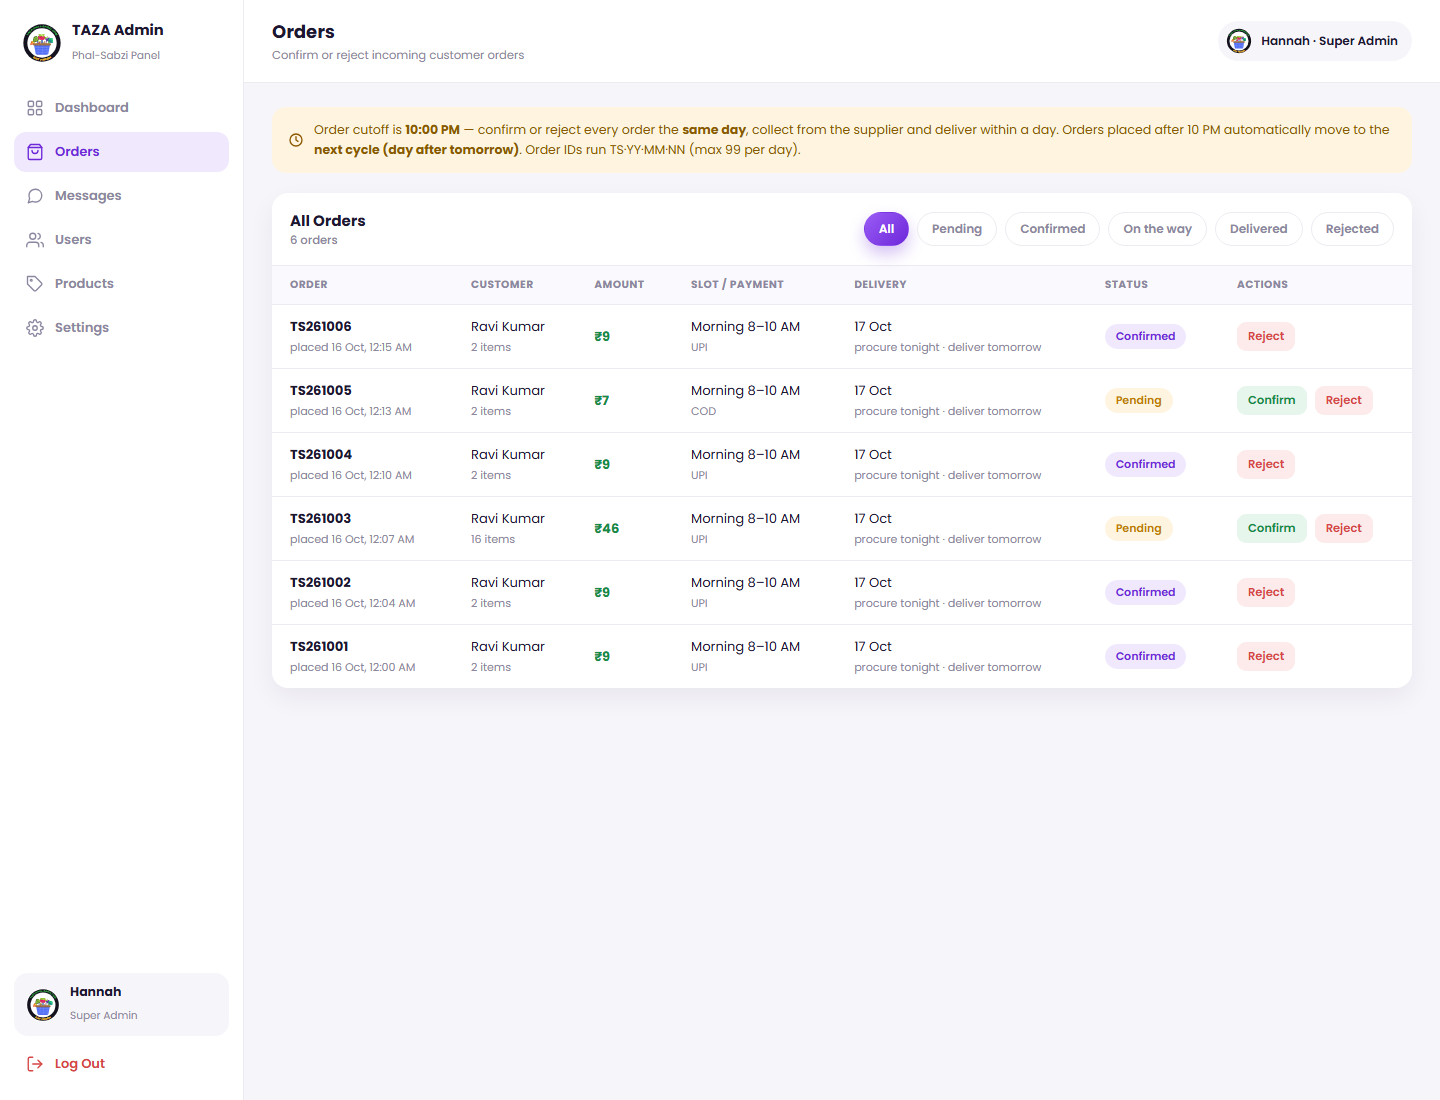
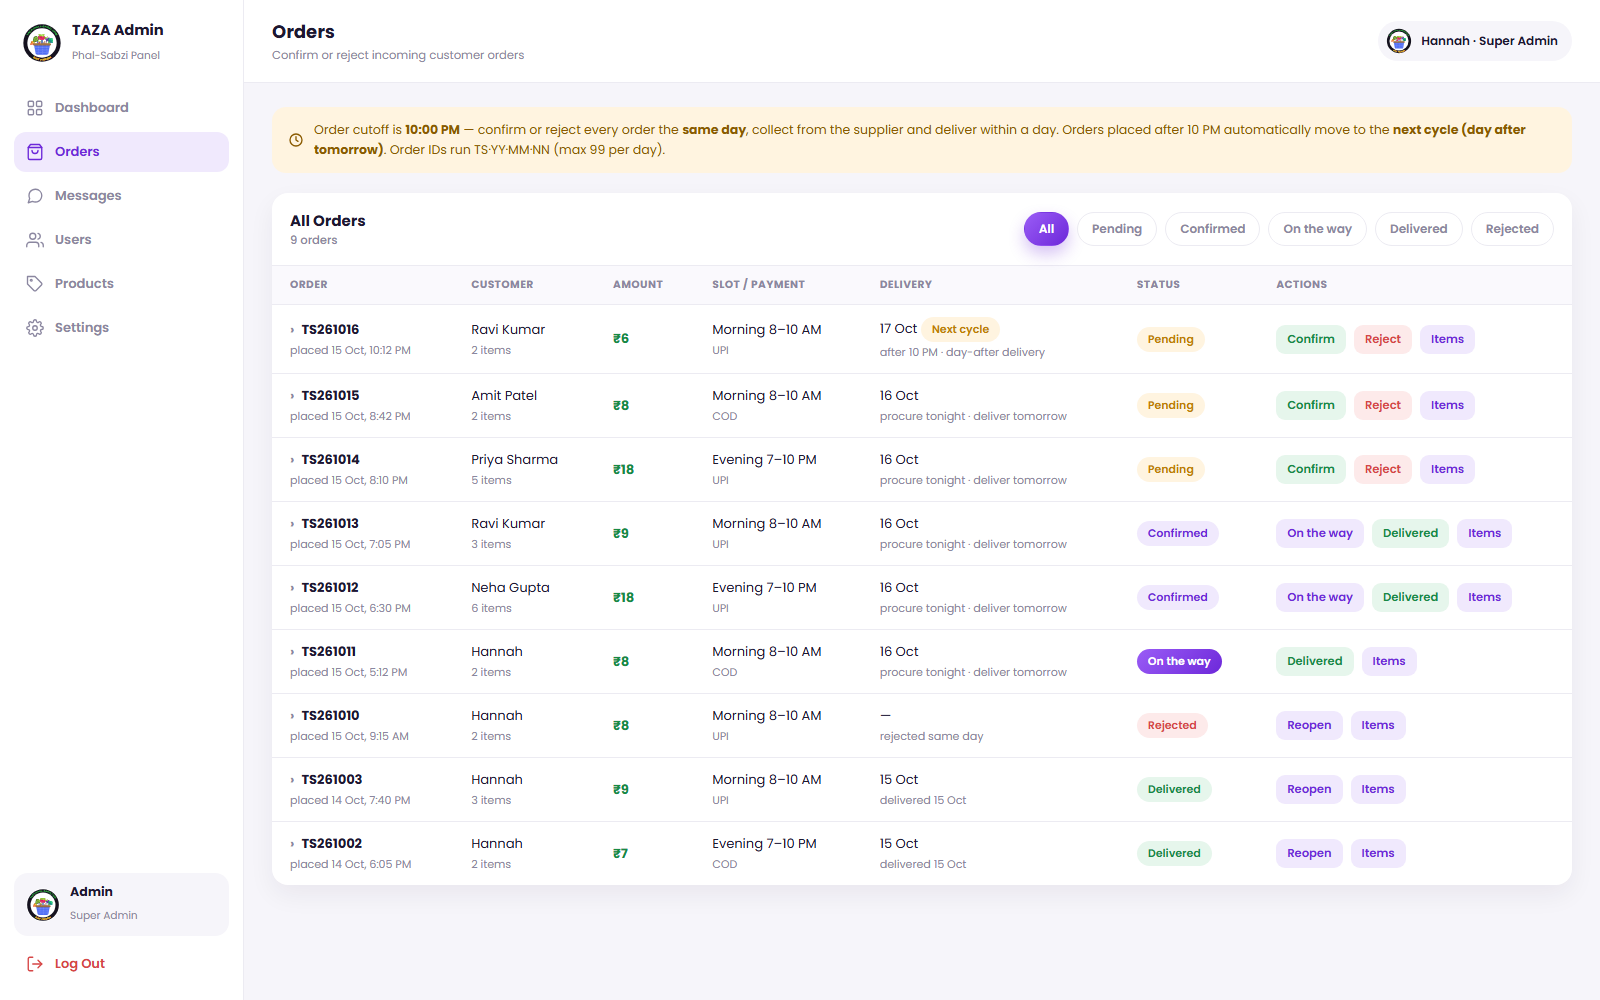
Admin orders: expandable rows with items-to-pack (qty+unit) and status change at any stage

diff --git a/admin/admin.js b/admin/admin.js
@@ -137,15 +137,15 @@
       { id: 'USR-1008', rawId: null, name: 'Rahul Singh', email: 'rahul@deliver.in', phone: '+91 98200 11008', address: '3, Workers Colony, Hadapsar, Pune 411028', role: 'delivery', password: 'rahul@135', status: 'active', joined: '14 Jul 2025' }
     ],
     orders: [
-      { id: 'TS261016', customer: 'Ravi Kumar', items: [{ name: 'Tomato', qty: 1 }, { name: 'Coriander', qty: 1 }], amount: 6, slot: 'Morning 8–10 AM', payment: 'UPI', placed: '15 Oct, 10:12 PM', delivery: '17 Oct', cycle: 'day-after', status: 'Pending' },
-      { id: 'TS261015', customer: 'Amit Patel', items: [{ name: 'Tomato', qty: 2 }, { name: 'Potato', qty: 1 }], amount: 8, slot: 'Morning 8–10 AM', payment: 'COD', placed: '15 Oct, 8:42 PM', delivery: '16 Oct', cycle: 'tomorrow', status: 'Pending' },
-      { id: 'TS261014', customer: 'Priya Sharma', items: [{ name: 'Spinach', qty: 2 }, { name: 'Carrot', qty: 1 }, { name: 'Apple', qty: 1 }, { name: 'Grapes', qty: 1 }, { name: 'Orange', qty: 1 }], amount: 18, slot: 'Evening 7–10 PM', payment: 'UPI', placed: '15 Oct, 8:10 PM', delivery: '16 Oct', cycle: 'tomorrow', status: 'Pending' },
-      { id: 'TS261013', customer: 'Ravi Kumar', items: [{ name: 'Onion', qty: 1 }, { name: 'Capsicum', qty: 1 }, { name: 'Coriander', qty: 1 }], amount: 9, slot: 'Morning 8–10 AM', payment: 'UPI', placed: '15 Oct, 7:05 PM', delivery: '16 Oct', cycle: 'tomorrow', status: 'Confirmed' },
-      { id: 'TS261012', customer: 'Neha Gupta', items: [{ name: 'Tomato', qty: 1 }, { name: 'Brinjal', qty: 1 }, { name: 'Mango', qty: 1 }, { name: 'Banana', qty: 1 }, { name: 'Cherry', qty: 1 }, { name: 'Melon', qty: 1 }], amount: 18, slot: 'Evening 7–10 PM', payment: 'UPI', placed: '15 Oct, 6:30 PM', delivery: '16 Oct', cycle: 'tomorrow', status: 'Confirmed' },
-      { id: 'TS261011', customer: 'Hannah', items: [{ name: 'Spinach', qty: 1 }, { name: 'Apple', qty: 1 }], amount: 8, slot: 'Morning 8–10 AM', payment: 'COD', placed: '15 Oct, 5:12 PM', delivery: '16 Oct', cycle: 'tomorrow', status: 'On the way' },
-      { id: 'TS261010', customer: 'Hannah', items: [{ name: 'Grapes', qty: 1 }, { name: 'Kiwi', qty: 2 }], amount: 8, slot: 'Morning 8–10 AM', payment: 'UPI', placed: '15 Oct, 9:15 AM', delivery: '—', cycle: 'tomorrow', status: 'Rejected' },
-      { id: 'TS261003', customer: 'Hannah', items: [{ name: 'Potato', qty: 1 }, { name: 'Spinach', qty: 1 }, { name: 'Lettuce', qty: 1 }], amount: 9, slot: 'Morning 8–10 AM', payment: 'UPI', placed: '14 Oct, 7:40 PM', delivery: '15 Oct', cycle: 'tomorrow', status: 'Delivered' },
-      { id: 'TS261002', customer: 'Hannah', items: [{ name: 'Apple', qty: 1 }, { name: 'Carrot', qty: 1 }], amount: 7, slot: 'Evening 7–10 PM', payment: 'COD', placed: '14 Oct, 6:05 PM', delivery: '15 Oct', cycle: 'tomorrow', status: 'Delivered' }
+      { id: 'TS261016', customer: 'Ravi Kumar', address: 'Flat 302, Sai Residency, Baner, Pune 411045', items: [{ name: 'Tomato', qty: 1, unit: 'kg' }, { name: 'Coriander', qty: 1, unit: 'bunch' }], amount: 6, slot: 'Morning 8–10 AM', payment: 'UPI', placed: '15 Oct, 10:12 PM', delivery: '17 Oct', cycle: 'day-after', status: 'Pending' },
+      { id: 'TS261015', customer: 'Amit Patel', address: '21, Shanti Nagar, Wakad, Pune 411057', items: [{ name: 'Tomato', qty: 2, unit: 'kg' }, { name: 'Potato', qty: 1, unit: 'kg' }], amount: 8, slot: 'Morning 8–10 AM', payment: 'COD', placed: '15 Oct, 8:42 PM', delivery: '16 Oct', cycle: 'tomorrow', status: 'Pending' },
+      { id: 'TS261014', customer: 'Priya Sharma', address: '7, Rose Villa, Kothrud, Pune 411038', items: [{ name: 'Spinach', qty: 2, unit: 'bunch' }, { name: 'Carrot', qty: 1, unit: 'kg' }, { name: 'Apple', qty: 1, unit: 'pack' }, { name: 'Grapes', qty: 1, unit: 'kg' }, { name: 'Orange', qty: 1, unit: 'dozen' }], amount: 18, slot: 'Evening 7–10 PM', payment: 'UPI', placed: '15 Oct, 8:10 PM', delivery: '16 Oct', cycle: 'tomorrow', status: 'Pending' },
+      { id: 'TS261013', customer: 'Ravi Kumar', address: 'Flat 302, Sai Residency, Baner, Pune 411045', items: [{ name: 'Onion', qty: 1, unit: 'kg' }, { name: 'Capsicum', qty: 1, unit: 'kg' }, { name: 'Coriander', qty: 1, unit: 'bunch' }], amount: 9, slot: 'Morning 8–10 AM', payment: 'UPI', placed: '15 Oct, 7:05 PM', delivery: '16 Oct', cycle: 'tomorrow', status: 'Confirmed' },
+      { id: 'TS261012', customer: 'Neha Gupta', address: '88, Green Meadows, Hinjewadi, Pune 411057', items: [{ name: 'Tomato', qty: 1, unit: 'kg' }, { name: 'Brinjal', qty: 1, unit: 'kg' }, { name: 'Mango', qty: 1, unit: 'kg' }, { name: 'Banana', qty: 1, unit: 'dozen' }, { name: 'Cherry', qty: 1, unit: 'pack' }, { name: 'Melon', qty: 1, unit: 'piece' }], amount: 18, slot: 'Evening 7–10 PM', payment: 'UPI', placed: '15 Oct, 6:30 PM', delivery: '16 Oct', cycle: 'tomorrow', status: 'Confirmed' },
+      { id: 'TS261011', customer: 'Hannah', address: '12, Green Park Society, MG Road, Pune 411001', items: [{ name: 'Spinach', qty: 1, unit: 'bunch' }, { name: 'Apple', qty: 1, unit: 'pack' }], amount: 8, slot: 'Morning 8–10 AM', payment: 'COD', placed: '15 Oct, 5:12 PM', delivery: '16 Oct', cycle: 'tomorrow', status: 'On the way' },
+      { id: 'TS261010', customer: 'Hannah', address: '12, Green Park Society, MG Road, Pune 411001', items: [{ name: 'Grapes', qty: 1, unit: 'kg' }, { name: 'Kiwi', qty: 2, unit: 'piece' }], amount: 8, slot: 'Morning 8–10 AM', payment: 'UPI', placed: '15 Oct, 9:15 AM', delivery: '—', cycle: 'tomorrow', status: 'Rejected' },
+      { id: 'TS261003', customer: 'Hannah', address: '12, Green Park Society, MG Road, Pune 411001', items: [{ name: 'Potato', qty: 1, unit: 'kg' }, { name: 'Spinach', qty: 1, unit: 'bunch' }, { name: 'Lettuce', qty: 1, unit: 'bunch' }], amount: 9, slot: 'Morning 8–10 AM', payment: 'UPI', placed: '14 Oct, 7:40 PM', delivery: '15 Oct', cycle: 'tomorrow', status: 'Delivered' },
+      { id: 'TS261002', customer: 'Hannah', address: '12, Green Park Society, MG Road, Pune 411001', items: [{ name: 'Apple', qty: 1, unit: 'pack' }, { name: 'Carrot', qty: 1, unit: 'kg' }], amount: 7, slot: 'Evening 7–10 PM', payment: 'COD', placed: '14 Oct, 6:05 PM', delivery: '15 Oct', cycle: 'tomorrow', status: 'Delivered' }
     ],
     products: [
       { name: 'Potato', emoji: '🥔', cat: 'veg', unit: 'kg', rate: 1, section: 'kg' },
@@ -276,22 +276,99 @@
       delivery: o.status === 'rejected' ? '—' : fmtDay(o.delivery_date),
       deliveryDate: o.delivery_date,
       cycle: o.cycle,
-      status: o.status === 'on_way' ? 'On the way' : o.status.charAt(0).toUpperCase() + o.status.slice(1)
+      status: o.status === 'on_way' ? 'On the way' : o.status.charAt(0).toUpperCase() + o.status.slice(1),
+      address: o.address || '',
+      fee: o.delivery_fee != null ? Number(o.delivery_fee) : null,
+      discount: Number(o.discount || 0)
     };
   }
 
   /* ---------------- orders ---------------- */
 
   var orderFilter = 'All';
+  var ORDER_STATUSES = ['Pending', 'Confirmed', 'On the way', 'Delivered', 'Rejected'];
+  var ORDER_STATUS_API = { 'Pending': 'pending', 'Confirmed': 'confirmed', 'On the way': 'on_way', 'Delivered': 'delivered', 'Rejected': 'rejected' };
+  var expandedOrders = {};
+
+  /* "1.5 kg", "2 bunch", "200 g" — same units the customer ordered */
+  function itemQtyText(it) {
+    var unit = it && it.unit != null ? String(it.unit) : '';
+    var qty = Number(it && it.qty) || 0;
+    if (unit === '100 g') return fmtQty(qty * 100) + ' g';
+    if (!unit) return fmtQty(qty);
+    return fmtQty(qty) + ' ' + unit;
+  }
 
   function orderActions(o) {
-    if (o.status === 'Delivered' || o.status === 'Rejected') return '<span class="muted">—</span>';
     var html = '';
+    var open = !!expandedOrders[o.id];
     if (o.status === 'Pending') {
       html += '<button class="btn success small" data-act="confirm" data-id="' + esc(o.id) + '">Confirm</button>';
+      html += '<button class="btn danger small" data-act="reject" data-id="' + esc(o.id) + '">Reject</button>';
+    } else if (o.status === 'Confirmed') {
+      html += '<button class="btn ghost small" data-act="set-status" data-id="' + esc(o.id) + '" data-status="On the way">On the way</button>';
+      html += '<button class="btn success small" data-act="set-status" data-id="' + esc(o.id) + '" data-status="Delivered">Delivered</button>';
+    } else if (o.status === 'On the way') {
+      html += '<button class="btn success small" data-act="set-status" data-id="' + esc(o.id) + '" data-status="Delivered">Delivered</button>';
+    } else {
+      /* delivered / rejected — reopen or switch to any status from the expanded panel */
+      html += '<button class="btn ghost small" data-act="set-status" data-id="' + esc(o.id) + '" data-status="Pending">Reopen</button>';
     }
-    html += '<button class="btn danger small" data-act="reject" data-id="' + esc(o.id) + '">Reject</button>';
+    html += '<button class="btn ghost small" data-act="expand" data-id="' + esc(o.id) + '">' + (open ? 'Hide items' : 'Items') + '</button>';
     return html;
+  }
+
+  function orderDetailRow(o) {
+    var items = o.items || [];
+
+    /* items to pack: name, ordered quantity + unit, rate, line amount */
+    var lines = items.map(function (it) {
+      var hasRate = it.rate != null;
+      var amount = hasRate ? Number(it.rate) * Number(it.qty) : null;
+      return '<div class="od-line">' +
+        '<b>' + esc(it.name) + '</b>' +
+        '<span class="od-qty">×' + itemQtyText(it) + '</span>' +
+        (hasRate ? '<span class="od-rate">' + money(Number(it.rate)) + ' /' + esc(String(it.unit || 'unit')) + '</span>' : '') +
+        (amount != null ? '<em>' + money(amount) + '</em>' : '') +
+        '</div>';
+    }).join('') || '<p class="muted">No line items</p>';
+
+    var hasRates = items.some(function (it) { return it.rate != null; });
+    var totals = '';
+    if (hasRates) {
+      var sub = items.reduce(function (s, it) { return s + Number(it.rate || 0) * Number(it.qty || 0); }, 0);
+      var fee = o.fee != null ? o.fee : 0;
+      totals += '<div class="od-total"><span>Subtotal</span><b>' + money(sub) + '</b></div>';
+      totals += '<div class="od-total"><span>Delivery</span><b>' + money(fee) + '</b></div>';
+      if (o.discount > 0) totals += '<div class="od-total"><span>UPI discount (3%)</span><b>−' + money(o.discount) + '</b></div>';
+    }
+    totals += '<div class="od-total grand"><span>' + (hasRates ? 'Total' : 'Order total') + '</span><b>' + money(o.amount) + '</b></div>';
+
+    var statusBtns = ORDER_STATUSES.map(function (s) {
+      return '<button class="status-btn' + (s === o.status ? ' active' : '') + '"' +
+        ' data-act="set-status" data-id="' + esc(o.id) + '" data-status="' + s + '">' + s + '</button>';
+    }).join('');
+
+    return '<tr class="order-detail-row"><td colspan="7">' +
+      '<div class="od-grid">' +
+      '<div class="od-items">' +
+      '<h4>Items to pack <span>' + items.length + '</span></h4>' + lines +
+      '<div class="od-totals">' + totals + '</div>' +
+      '</div>' +
+      '<div class="od-side">' +
+      '<h4>Order details</h4>' +
+      '<div class="od-meta">' +
+      '<div class="kv"><span>Customer</span><b>' + esc(o.customer) + '</b></div>' +
+      '<div class="kv"><span>Payment</span><b>' + (o.payment === 'COD' ? 'COD · pay on delivery' : 'UPI · paid online') + '</b></div>' +
+      '<div class="kv"><span>Placed</span><b>' + esc(o.placed) + '</b></div>' +
+      '<div class="kv"><span>Delivery</span><b>' + esc(o.delivery) + '</b></div>' +
+      '<div class="kv"><span>Address</span><b>' + esc(o.address || '—') + '</b></div>' +
+      '</div>' +
+      '<h4>Change status</h4>' +
+      '<div class="od-status">' + statusBtns + '</div>' +
+      '<p class="od-note">Move the order to any status at any time — even after delivery, e.g. to correct a mistaken update.</p>' +
+      '</div>' +
+      '</div></td></tr>';
   }
 
   function renderOrders() {
@@ -299,8 +376,9 @@
     if (!tbody) return;
     var list = state.orders.filter(function (o) { return orderFilter === 'All' || o.status === orderFilter; });
     tbody.innerHTML = list.map(function (o) {
-      return '<tr>' +
-        '<td><b>' + esc(o.id) + '</b><span class="sub">placed ' + esc(o.placed) + '</span></td>' +
+      var open = !!expandedOrders[o.id];
+      var row = '<tr class="order-row' + (open ? ' open' : '') + '" data-order-row="' + esc(o.id) + '">' +
+        '<td><span class="row-chev" aria-hidden="true">›</span><b>' + esc(o.id) + '</b><span class="sub">placed ' + esc(o.placed) + '</span></td>' +
         '<td>' + esc(o.customer) + '<span class="sub">' + o.items.length + ' items</span></td>' +
         '<td class="amount">' + money(o.amount) + '</td>' +
         '<td>' + esc(o.slot) + '<span class="sub">' + esc(o.payment) + '</span></td>' +
@@ -309,6 +387,7 @@
         '<td>' + statusPill(o.status) + '</td>' +
         '<td class="actions-cell">' + orderActions(o) + '</td>' +
         '</tr>';
+      return row + (open ? orderDetailRow(o) : '');
     }).join('') || '<tr><td colspan="7" class="muted" style="padding:22px 18px">No orders in this filter.</td></tr>';
 
     var countEl = $('#ordersCount');
@@ -332,7 +411,7 @@
       toast(msg);
       return;
     }
-    window.TAZA.orderStatus(id, status.toLowerCase().replace(' ', '_')).then(function () {
+    window.TAZA.orderStatus(id, ORDER_STATUS_API[status] || String(status).toLowerCase()).then(function () {
       toast(msg);
       loadOrders();
       loadDashboard();
@@ -855,6 +934,15 @@
     var convEl = e.target.closest('.conv');
     if (convEl) { openConversation(convEl.getAttribute('data-conv')); return; }
 
+    /* tap an order row to expand its items-to-pack + status controls */
+    var orderRow = e.target.closest('[data-order-row]');
+    if (orderRow && !e.target.closest('button, a, select, input, label')) {
+      var oidRow = orderRow.getAttribute('data-order-row');
+      expandedOrders[oidRow] = !expandedOrders[oidRow];
+      renderOrders();
+      return;
+    }
+
     var btn = e.target.closest('[data-act]');
     if (!btn) return;
     var act = btn.getAttribute('data-act');
@@ -862,6 +950,12 @@
 
     if (act === 'confirm') { setOrderStatus(id, 'Confirmed', 'Order ' + id + ' confirmed — collect from supplier tonight'); return; }
     if (act === 'reject') { setOrderStatus(id, 'Rejected', 'Order ' + id + ' rejected — customer notified'); return; }
+    if (act === 'expand') { expandedOrders[id] = !expandedOrders[id]; renderOrders(); return; }
+    if (act === 'set-status') {
+      var newStatus = btn.getAttribute('data-status');
+      setOrderStatus(id, newStatus, 'Order ' + id + ' → ' + newStatus + (newStatus === 'Delivered' || newStatus === 'Rejected' ? '' : ' — customer will be informed'));
+      return;
+    }
 
     if (act === 'edit-user') { editingUserId = id; renderUsers(); return; }
     if (act === 'edit-user-cancel') { editingUserId = null; renderUsers(); return; }
@@ -1124,6 +1218,11 @@
 
   function boot() {
     renderSidebar();
+
+    /* preview helper: ?order=TS… auto-expands that order row */
+    var expandParam = null;
+    try { expandParam = new URLSearchParams(location.search).get('order'); } catch (e) { /* noop */ }
+    if (expandParam) expandedOrders[expandParam] = true;
 
     /* bind the forms once — they work in both demo and live mode */
     setupChatForm();

diff --git a/admin/admin.css b/admin/admin.css
@@ -236,6 +236,99 @@ input[type='number']::-webkit-inner-spin-button { -webkit-appearance: none; marg
 .actions-cell .btn + .btn,
 .actions-cell .iconbtn + .iconbtn { margin-left: 8px; }
 
+/* expandable order rows: items to pack + status control */
+.order-row { cursor: pointer; }
+.order-row.open td { background: #faf9ff; }
+.row-chev {
+  display: inline-block;
+  margin-right: 7px;
+  color: var(--muted);
+  font-weight: 700;
+  transition: transform 0.18s ease;
+}
+.order-row.open .row-chev { transform: rotate(90deg); color: var(--brand-strong); }
+
+.order-detail-row td { background: #fbfaff; padding: 2px 18px 18px; }
+.od-grid {
+  display: grid;
+  grid-template-columns: minmax(0, 1fr) minmax(0, 320px);
+  gap: 26px;
+  padding: 14px 0 2px;
+  border-top: 1px dashed var(--line);
+  cursor: default;
+}
+.od-items h4,
+.od-side h4 {
+  font-size: 11px;
+  font-weight: 700;
+  text-transform: uppercase;
+  letter-spacing: 0.07em;
+  color: var(--muted);
+  margin: 0 0 8px;
+}
+.od-items h4 span {
+  display: inline-block;
+  margin-left: 6px;
+  padding: 1px 8px;
+  border-radius: 99px;
+  background: var(--brand-soft);
+  color: var(--brand-strong);
+  font-size: 10.5px;
+}
+.od-line {
+  display: flex;
+  align-items: center;
+  gap: 12px;
+  padding: 7px 0;
+  border-bottom: 1px dashed var(--line);
+  font-size: 13px;
+}
+.od-line b { min-width: 120px; }
+.od-line .od-qty { color: var(--ink); font-weight: 600; font-size: 12.5px; }
+.od-line .od-rate { margin-left: auto; color: var(--muted); font-size: 11.5px; }
+.od-line em {
+  font-style: normal;
+  font-weight: 700;
+  color: var(--green-strong);
+  min-width: 60px;
+  text-align: right;
+}
+.od-totals { max-width: 320px; margin: 10px 0 0 auto; }
+.od-total { display: flex; justify-content: space-between; padding: 4px 0; font-size: 12.5px; color: var(--muted); }
+.od-total b { color: var(--ink); font-weight: 600; }
+.od-total.grand {
+  border-top: 1px solid var(--line);
+  margin-top: 4px;
+  padding-top: 8px;
+  font-weight: 700;
+  color: var(--ink);
+}
+.od-total.grand b { color: var(--green-strong); font-size: 14.5px; font-weight: 700; }
+
+.od-meta { margin: 0 0 14px; }
+.od-meta .kv { gap: 14px; }
+.od-meta .kv span { flex: none; }
+.od-meta .kv b { text-align: right; min-width: 0; }
+.od-status { display: flex; flex-wrap: wrap; gap: 7px; }
+.status-btn {
+  border: 1.5px solid var(--line);
+  background: #fff;
+  border-radius: 99px;
+  padding: 6px 13px;
+  font-size: 11.5px;
+  font-weight: 600;
+  color: var(--ink);
+  transition: all 0.15s ease;
+}
+.status-btn:hover { border-color: var(--brand); color: var(--brand-strong); }
+.status-btn.active {
+  background: linear-gradient(135deg, #9a5cf6, #6d28d9);
+  border-color: transparent;
+  color: #fff;
+  box-shadow: 0 6px 14px rgba(109, 40, 217, 0.25);
+}
+.od-note { font-size: 11px; color: var(--muted); margin-top: 9px; line-height: 1.55; }
+
 /* chips */
 .chips { display: flex; gap: 8px; flex-wrap: wrap; }
 .chip {

diff --git a/server/test-e2e.js b/server/test-e2e.js
@@ -143,6 +143,17 @@ function check(name, ok, extra) {
   const adminPage = await fetch(BASE + '/admin/index.html');
   check('admin page served', adminPage.status === 200);
 
+  /* 11. status can be changed at any stage — even after delivered */
+  const toDelivered = await req('PATCH', '/api/orders/' + o.id + '/status', { status: 'delivered' }, adminToken);
+  const toOnWay = await req('PATCH', '/api/orders/' + o.id + '/status', { status: 'on_way' }, adminToken);
+  const toPending = await req('PATCH', '/api/orders/' + o.id + '/status', { status: 'pending' }, adminToken);
+  const backDelivered = await req('PATCH', '/api/orders/' + o.id + '/status', { status: 'delivered' }, adminToken);
+  check(
+    'status changes at any stage (delivered → on_way → pending → delivered)',
+    toDelivered.data.status === 'delivered' && toOnWay.data.status === 'on_way' &&
+      toPending.data.status === 'pending' && backDelivered.status === 200
+  );
+
   /* summary */
   console.log('');
   console.log(results.join('\n'));

diff --git a/BACKEND.md b/BACKEND.md
@@ -81,7 +81,7 @@ The templates are mobile-first, so everything renders full-bleed like a native a
 | `GET /api/products?cat=veg\|fruits` | public | catalogue |
 | `POST /api/orders` | customer | place order (items, slot, payment, address) — UPI gets a 3% discount |
 | `GET /api/orders?status=&cycle=` | auth | own orders (admin: all, filterable) |
-| `PATCH /api/orders/:id/status` | admin | confirm / reject / deliver |
+| `PATCH /api/orders/:id/status` | admin | set any status at any stage — confirm / on the way / deliver / reject / reopen (even after delivered) |
 | `GET /api/chat/my`, `POST /api/chat/my` | customer | support chat |
 | `GET /api/chat/conversations` | admin | inbox list with unread counts |
 | `GET/POST /api/chat/conversations/:id` | admin | read thread / reply |
